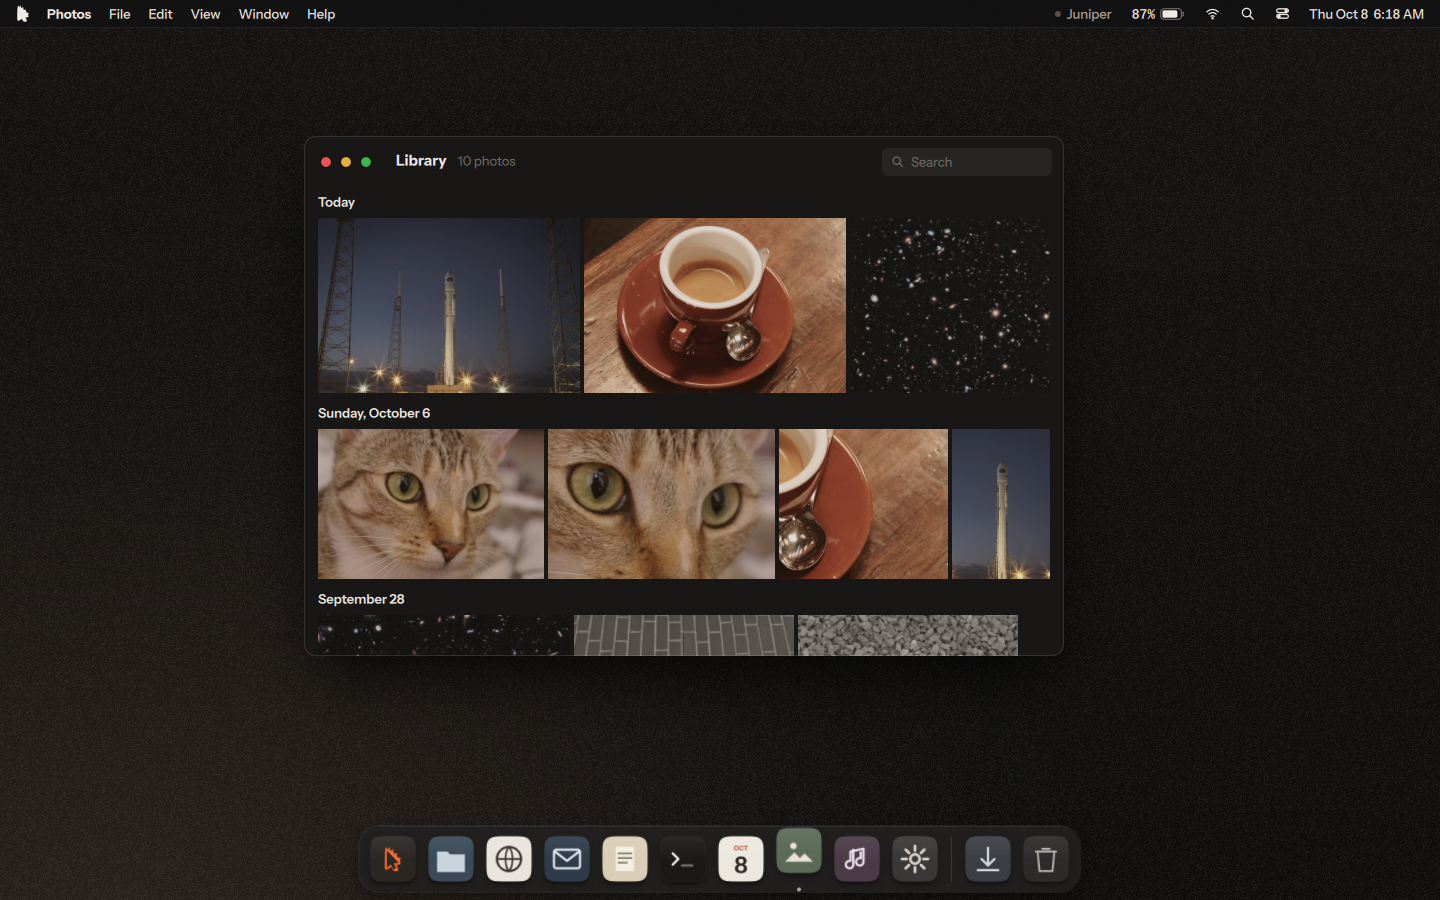
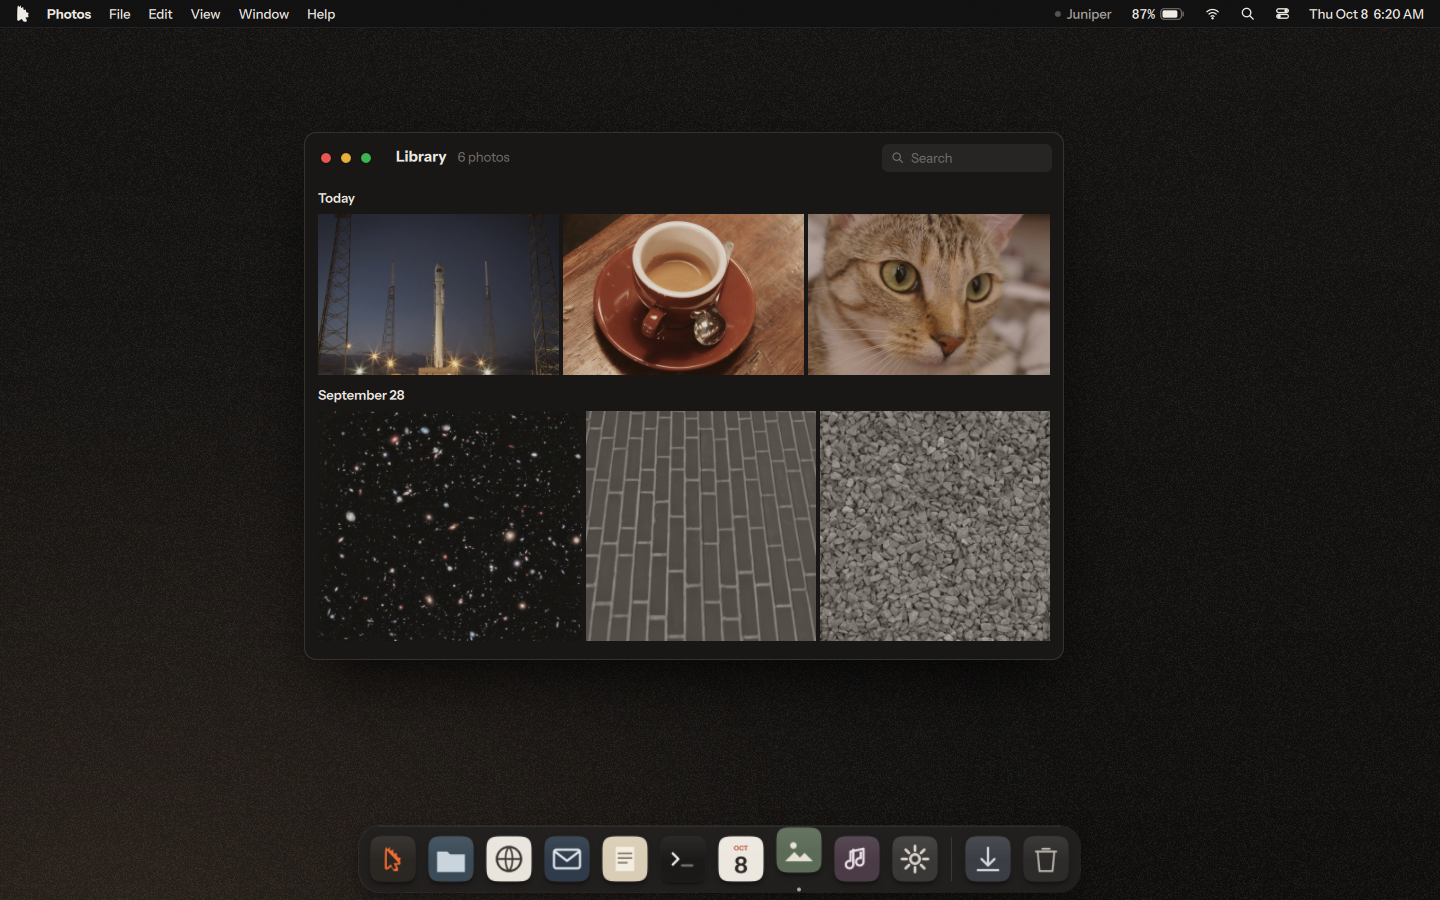
Photos: each original once, justified, window fits
Claude-Session: https://claude.ai/code/session_01B11KmgS7KywUE1jfuntsyj

diff --git a/shell/apps/Photos.qml b/shell/apps/Photos.qml
@@ -8,14 +8,13 @@ Item {
     function start(opts) {}
     // real photographs (CC0 / public domain, see assets/CREDITS), with their aspect ratios
     readonly property var days: [
-        { title: "Today", photos: [["launch-dusk", 1.5], ["espresso", 1.5], ["deep-field", 1.147]] },
-        { title: "Sunday, October 6", photos: [["chelsea", 1.503], ["chelsea-close", 1.506], ["espresso-spoon", 1.125], ["launch-tower", 0.653]] },
-        { title: "September 28", photos: [["deep-field-detail", 1.147], ["brick", 1], ["gravel", 1]] }
+        { title: "Today", photos: [["launch-dusk", 1.5], ["espresso", 1.5], ["chelsea", 1.503]] },
+        { title: "September 28", photos: [["deep-field", 1.147], ["brick", 1], ["gravel", 1]] }
     ]
     Row {
         x: 92; y: 15; spacing: 10
         Text { id: lib; text: "Library"; color: Theme.text; font.family: Theme.font; font.pixelSize: 15; font.weight: Font.Bold }
-        Text { text: "10 photos"; color: Theme.text3; font.family: Theme.font; font.pixelSize: 13; anchors.baseline: lib.baseline }
+        Text { text: "6 photos"; color: Theme.text3; font.family: Theme.font; font.pixelSize: 13; anchors.baseline: lib.baseline }
     }
     SearchPill { anchors.right: parent.right; anchors.rightMargin: 12; y: 12 }
     Flickable {
@@ -34,7 +33,7 @@ Item {
                     id: day
                     required property var modelData
                     readonly property real sum: modelData.photos.reduce(function (s, p) { return s + p[1]; }, 0)
-                    readonly property real rowH: Math.min(220, (col.width - 4 * (modelData.photos.length - 1)) / sum)
+                    readonly property real rowH: Math.min(260, (col.width - 4 * (modelData.photos.length - 1)) / sum)
                     width: col.width; spacing: 8
                     Text { text: day.modelData.title; color: Theme.text; font.family: Theme.font; font.pixelSize: 13; font.weight: Font.DemiBold; topPadding: 6 }
                     Row {

diff --git a/shell/Main.qml b/shell/Main.qml
@@ -30,7 +30,7 @@ Window {
         { id: "notes", title: "Notes", icon: "notes", src: "Notes", w: 820, h: 540 },
         { id: "terminal", title: "Terminal", icon: "terminal", src: "Terminal", w: 680, h: 440, titled: true },
         { id: "calendar", title: "Calendar", icon: "calendar", src: "Calendar", w: 780, h: 560 },
-        { id: "photos", title: "Photos", icon: "photos", src: "Photos", w: 760, h: 520 },
+        { id: "photos", title: "Photos", icon: "photos", src: "Photos", w: 760, h: 528 },
         { id: "music", title: "Music", icon: "music", src: "Music", w: 340, h: 700 },
         { id: "settings", title: "System Settings", icon: "settings", src: "Settings", w: 720, h: 520 },
         { id: "about", title: "About Firelamp OS", icon: "assistant", src: "About", w: 360, h: 480, noDock: true }
